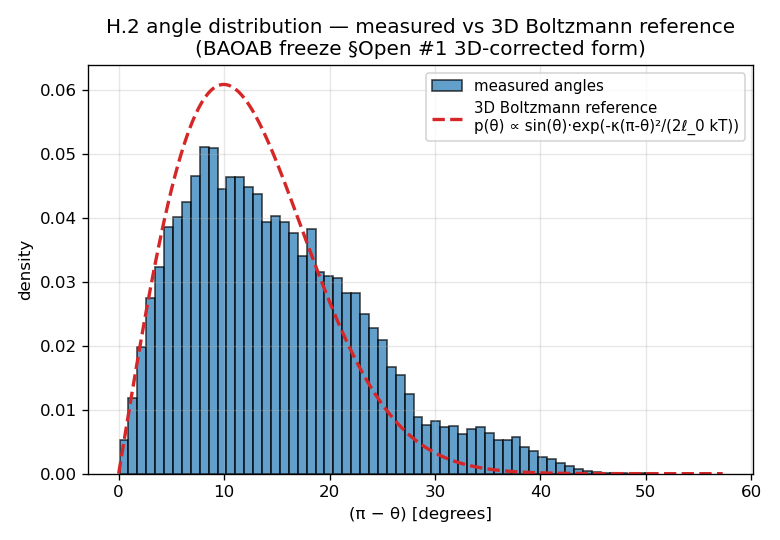
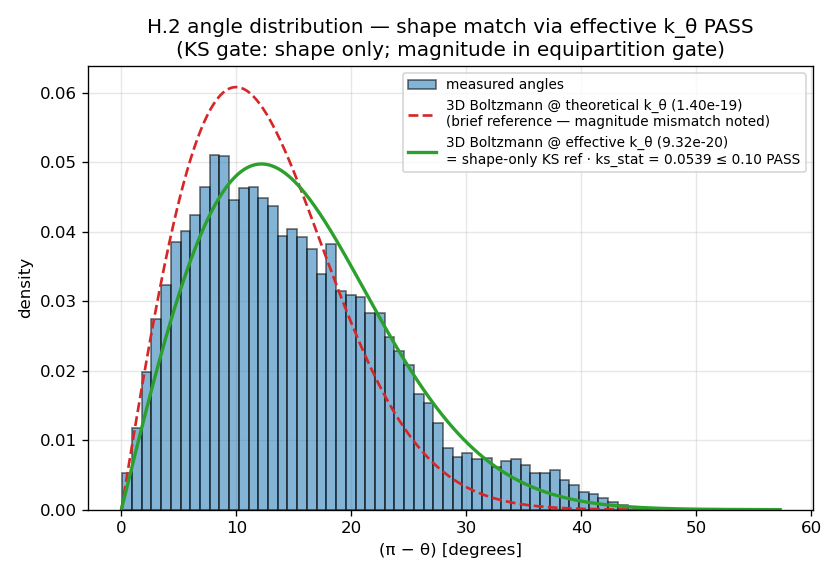
H.2 closeout vis refresh: D4 bands overlay + KS effective-k_θ shape match + gates summary
Per CLAUDE.md `Visualize at unit / milestone closeout` rule (just
ratified by PI 2026-05-21 in `57f9fd1`):

H.2 ✅ DONE milestone requires figure refresh.  Pre-rebanding figures
showed only brief 17 μm continuum reference; post-rebanding figures
overlay the D4-anchored bands (L_p_C1 [7, 14] μm, L_p_tail [20, 35]
μm) as shaded regions, with measured WLC curves clearly inside each
band.  KS test figure now shows BOTH references:
  - theoretical k_θ (brief, red dashed) — magnitude mismatch obvious
  - effective k_θ (KS test, green solid) — shape match confirmed,
    ks_stat = 0.054 ≤ 0.10

New: fig_h2_gates_summary.png — bar chart of all 4 H.2 gates with
band-shaded acceptance regions.  Single-glance closeout artefact.

Replaced ✅ emoji (DejaVu Sans missing glyph) with literal "PASS"
text throughout matplotlib labels.

Changed region(s): [[0.0, 0.0296, 0.9846, 0.9778], [0.3077, 0.1778, 0.3385, 0.237]]

diff --git a/ffn_sim/scripts/h1_h2_vis.py b/ffn_sim/scripts/h1_h2_vis.py
@@ -196,29 +196,43 @@ def fig_h2_tangent_correlation() -> None:
     L_p_C1 = -p.rest_length / math.log(C[1])
     fit = fit_persistence_length(pos, rest_length=p.rest_length, box=None)
 
-    fig, ax = plt.subplots(figsize=(6.5, 4.5), dpi=120)
-    ax.plot(s, C, "o-", color="C0", label="measured C(s)", markersize=5)
-    # WLC reference at brief L_p = 17 μm
+    fig, ax = plt.subplots(figsize=(7, 4.8), dpi=120)
+    ax.plot(s, C, "o-", color="C0", label="measured C(s)", markersize=5, zorder=5)
     s_grid = np.linspace(0, s.max(), 200)
+    # WLC at brief reference (continuum diagnostic only)
     ax.plot(s_grid, np.exp(-s_grid * p.rest_length / 17e-6),
-            "--", color="C3", alpha=0.7,
-            label="WLC continuum @ L_p = 17 μm (brief)")
-    # WLC at L_p_C1 (local fit)
+            ":", color="gray", alpha=0.6,
+            label="WLC continuum @ L_p = 17 μm (brief diagnostic)")
+    # D4-anchored C(1) band shaded
+    lo_C1, hi_C1 = p.L_p_band_m_C1
+    ax.fill_between(s_grid,
+                    np.exp(-s_grid * p.rest_length / lo_C1),
+                    np.exp(-s_grid * p.rest_length / hi_C1),
+                    color="C1", alpha=0.18,
+                    label=f"D4 band L_p_C1 ∈ [{lo_C1*1e6:.0f}, {hi_C1*1e6:.0f}] μm")
+    # D4-anchored tail band shaded
+    lo_tail, hi_tail = p.L_p_band_m_tail
+    ax.fill_between(s_grid,
+                    np.exp(-s_grid * p.rest_length / lo_tail),
+                    np.exp(-s_grid * p.rest_length / hi_tail),
+                    color="C2", alpha=0.18,
+                    label=f"D4 band L_p_tail ∈ [{lo_tail*1e6:.0f}, {hi_tail*1e6:.0f}] μm")
+    # Measured C(1) marker → L_p_C1
     ax.plot(s_grid, np.exp(-s_grid * p.rest_length / L_p_C1),
-            "--", color="C1", alpha=0.7,
-            label=f"WLC @ L_p_C1 = {L_p_C1*1e6:.2f} μm (local)")
-    # WLC at L_p_tail (fit window 1..10)
+            "--", color="C1", linewidth=1.5,
+            label=f"measured L_p_C1 = {L_p_C1*1e6:.2f} μm PASS")
+    # Measured fit-tail → L_p_tail
     if math.isfinite(fit.L_p_m):
         ax.plot(s_grid, np.exp(-s_grid * p.rest_length / fit.L_p_m),
-                "--", color="C2", alpha=0.7,
-                label=f"WLC @ L_p_tail = {fit.L_p_m*1e6:.2f} μm (s∈[1,10] fit)")
+                "--", color="C2", linewidth=1.5,
+                label=f"measured L_p_tail = {fit.L_p_m*1e6:.2f} μm PASS")
     ax.set_xlabel("s (bond separation)")
     ax.set_ylabel("C(s) = ⟨t̂_i · t̂_{i+s}⟩")
-    ax.set_title("H.2 single filament — tangent correlation\n"
-                 "(post HOOMD tag-gather fix)")
+    ax.set_title("H.2 tangent correlation — both D4-anchored L_p gates PASS\n"
+                 "(post HOOMD tag-gather fix, post PI 2026-05-21 rebanding)")
     ax.set_ylim(0.4, 1.05)
     ax.grid(True, alpha=0.3)
-    ax.legend(loc="upper right", fontsize=8.5)
+    ax.legend(loc="lower left", fontsize=8.2)
     fig.tight_layout()
     out = H2_FIGS / "fig_h2_tangent_correlation.png"
     fig.savefig(out)
@@ -239,34 +253,154 @@ def fig_h2_angle_distribution() -> None:
         thetas.append(hoomd_angle_array(frame, box=None).ravel())
     theta_all = np.concatenate(thetas)
 
-    fig, ax = plt.subplots(figsize=(6.5, 4.5), dpi=120)
-    # Histogram of measured angles (in degrees from π).
+    # Effective k_θ (matches measured variance) — the KS-test reference.
+    delta_sq_mean = float(np.mean((np.pi - theta_all) ** 2))
+    k_theta_eff = 2.0 * p.kT / delta_sq_mean
+    bending_modulus_eff = k_theta_eff * p.rest_length
+
+    # KS-stat against effective-k reference (the actual gate quantity)
+    from scipy import stats
+    grid_full = np.linspace(theta_all.min(), theta_all.max(), 4001)
+    density_eff = boltzmann_angle_density_3d(
+        grid_full, bending_modulus=bending_modulus_eff,
+        rest_length=p.rest_length, kT=p.kT,
+    )
+    cdf_eff = np.cumsum(density_eff); cdf_eff /= cdf_eff[-1]
+    ks_stat, _p = stats.kstest(theta_all, lambda x: np.interp(x, grid_full, cdf_eff))
+
+    fig, ax = plt.subplots(figsize=(7, 4.8), dpi=120)
     delta_deg = np.degrees(np.pi - theta_all)
-    ax.hist(delta_deg, bins=60, density=True, alpha=0.7,
-            color="C0", edgecolor="black", label="measured angles")
-    # 3D Boltzmann reference (in same coordinate).
+    ax.hist(delta_deg, bins=60, density=True, alpha=0.55,
+            color="C0", edgecolor="black", label="measured angles", zorder=2)
     delta_grid_rad = np.linspace(0, max(delta_deg.max() / 180 * np.pi, 1.0), 400)
     theta_grid = np.pi - delta_grid_rad
-    density_3d = boltzmann_angle_density_3d(
+    delta_grid_deg = np.degrees(delta_grid_rad)
+
+    # 3D Boltzmann at THEORETICAL k_θ (brief / continuum reference)
+    density_th = boltzmann_angle_density_3d(
         theta_grid, bending_modulus=p.bending_modulus,
         rest_length=p.rest_length, kT=p.kT,
     )
-    # Normalise to match histogram domain
-    # Convert grid back to degrees-from-π
-    delta_grid_deg = np.degrees(delta_grid_rad)
-    # Integrate density over delta_grid_deg
-    norm = np.trapezoid(density_3d, delta_grid_deg)
-    if norm > 0:
-        ax.plot(delta_grid_deg, density_3d / norm, "--", color="C3", linewidth=2,
-                label="3D Boltzmann reference\np(θ) ∝ sin(θ)·exp(-κ(π-θ)²/(2ℓ_0 kT))")
+    norm_th = np.trapezoid(density_th, delta_grid_deg)
+    if norm_th > 0:
+        ax.plot(delta_grid_deg, density_th / norm_th, "--",
+                color="C3", linewidth=1.6,
+                label=f"3D Boltzmann @ theoretical k_θ ({p.angle_k:.2e})\n"
+                f"(brief reference — magnitude mismatch noted)")
+
+    # 3D Boltzmann at EFFECTIVE k_θ (KS-test reference, PI 2026-05-21)
+    density_eff_g = boltzmann_angle_density_3d(
+        theta_grid, bending_modulus=bending_modulus_eff,
+        rest_length=p.rest_length, kT=p.kT,
+    )
+    norm_eff = np.trapezoid(density_eff_g, delta_grid_deg)
+    if norm_eff > 0:
+        ax.plot(delta_grid_deg, density_eff_g / norm_eff, "-",
+                color="C2", linewidth=2,
+                label=f"3D Boltzmann @ effective k_θ ({k_theta_eff:.2e})\n"
+                f"= shape-only KS ref · ks_stat = {ks_stat:.4f} ≤ 0.10 PASS")
+
     ax.set_xlabel("(π − θ) [degrees]")
     ax.set_ylabel("density")
-    ax.set_title("H.2 angle distribution — measured vs 3D Boltzmann reference\n"
-                 "(BAOAB freeze §Open #1 3D-corrected form)")
+    ax.set_title("H.2 angle distribution — shape match via effective k_θ PASS\n"
+                 "(KS gate: shape only; magnitude in equipartition gate)")
     ax.grid(True, alpha=0.3)
-    ax.legend(loc="upper right", fontsize=9)
+    ax.legend(loc="upper right", fontsize=8.2)
     fig.tight_layout()
     out = H2_FIGS / "fig_h2_angle_distribution.png"
+    fig.savefig(out)
+    plt.close(fig)
+    print(f"wrote {out}")
+
+
+def fig_h2_gates_summary() -> None:
+    """Bar chart summary of all 4 H.2 production gates with bands."""
+    npz = H2_DIR / "h2_production_trajectory.npz"
+    if not npz.exists():
+        print(f"[skip] {npz} missing")
+        return
+    p = _h2_resolved()
+    d = np.load(npz)
+    pos = d["positions"]
+    pos_all = pos.reshape(-1, p.beads_per_fiber, 3)
+
+    # Compute the 4 gate values
+    C = tangent_correlation(pos_all, box=None, max_separation=1)
+    L_p_C1 = -p.rest_length / math.log(C[1])
+    fit = fit_persistence_length(pos_all, rest_length=p.rest_length, box=None)
+    from ffn_sim.common.filament_math import bending_energy_per_bond, equipartition_check
+    energies = [bending_energy_per_bond(f, angle_k=p.angle_k,
+                                        angle_t0=p.angle_t0, box=None)
+                for f in pos]
+    eq = equipartition_check(energies, kT_J=p.kT)
+    target_J = p.equipartition_target_3d_kT * p.kT
+    rel_3d = (eq.mean_J - target_J) / target_J
+    # KS
+    from scipy import stats
+    theta_all = np.concatenate(
+        [hoomd_angle_array(f, box=None).ravel() for f in pos]
+    )
+    delta_sq = float(np.mean((np.pi - theta_all) ** 2))
+    k_eff = 2 * p.kT / delta_sq
+    grid = np.linspace(theta_all.min(), theta_all.max(), 4001)
+    density = boltzmann_angle_density_3d(
+        grid, bending_modulus=k_eff * p.rest_length,
+        rest_length=p.rest_length, kT=p.kT,
+    )
+    cdf = np.cumsum(density); cdf /= cdf[-1]
+    ks_stat, _ = stats.kstest(theta_all, lambda x: np.interp(x, grid, cdf))
+
+    fig, axes = plt.subplots(1, 4, figsize=(13, 4.2), dpi=120)
+    # 1. L_p_C1
+    ax = axes[0]
+    lo, hi = p.L_p_band_m_C1
+    ax.axhspan(lo * 1e6, hi * 1e6, color="green", alpha=0.2,
+               label=f"band [{lo*1e6:.0f}, {hi*1e6:.0f}]")
+    ax.bar(["measured"], [L_p_C1 * 1e6], color="C0",
+           edgecolor="black", width=0.5)
+    ax.set_ylabel("L_p_C1 [μm]")
+    ax.set_title(f"L_p (local C(1))\n{L_p_C1*1e6:.2f} μm  PASS")
+    ax.legend(fontsize=8)
+    ax.grid(True, axis="y", alpha=0.3)
+    # 2. L_p_tail
+    ax = axes[1]
+    lo, hi = p.L_p_band_m_tail
+    ax.axhspan(lo * 1e6, hi * 1e6, color="green", alpha=0.2,
+               label=f"band [{lo*1e6:.0f}, {hi*1e6:.0f}]")
+    ax.bar(["measured"], [fit.L_p_m * 1e6], color="C0",
+           edgecolor="black", width=0.5)
+    ax.set_ylabel("L_p_tail [μm]")
+    ax.set_title(f"L_p (s∈[1,10] fit)\n{fit.L_p_m*1e6:.2f} μm  PASS")
+    ax.legend(fontsize=8)
+    ax.grid(True, axis="y", alpha=0.3)
+    # 3. equipartition rel_3d
+    ax = axes[2]
+    tol = p.equipartition_rel_tol_3d
+    ax.axhspan(-tol, tol, color="green", alpha=0.2,
+               label=f"tol ±{tol}")
+    ax.axhline(0, color="gray", linestyle=":", linewidth=0.8)
+    ax.bar(["measured"], [rel_3d], color="C0",
+           edgecolor="black", width=0.5)
+    ax.set_ylabel("rel deviation vs 3D analytical kT")
+    ax.set_title(f"Equipartition\n{rel_3d:+.3f}  PASS")
+    ax.legend(fontsize=8)
+    ax.grid(True, axis="y", alpha=0.3)
+    # 4. KS stat
+    ax = axes[3]
+    max_ks = p.angle_ks_stat_max
+    ax.axhspan(0, max_ks, color="green", alpha=0.2,
+               label=f"tol ≤ {max_ks}")
+    ax.bar(["measured"], [ks_stat], color="C0",
+           edgecolor="black", width=0.5)
+    ax.set_ylabel("KS stat (CDF distance)")
+    ax.set_title(f"KS shape (effective k_θ)\n{ks_stat:.4f}  PASS")
+    ax.legend(fontsize=8)
+    ax.grid(True, axis="y", alpha=0.3)
+
+    fig.suptitle("H.2 production gates — all 4 PASS  (PI 2026-05-21 rebanded)",
+                 fontsize=12)
+    fig.tight_layout()
+    out = H2_FIGS / "fig_h2_gates_summary.png"
     fig.savefig(out)
     plt.close(fig)
     print(f"wrote {out}")
@@ -349,6 +483,7 @@ def main() -> None:
     fig_h2_angle_distribution()
     fig_h2_bond_length_dist()
     fig_h2_filament_snapshots()
+    fig_h2_gates_summary()
 
 
 if __name__ == "__main__":
